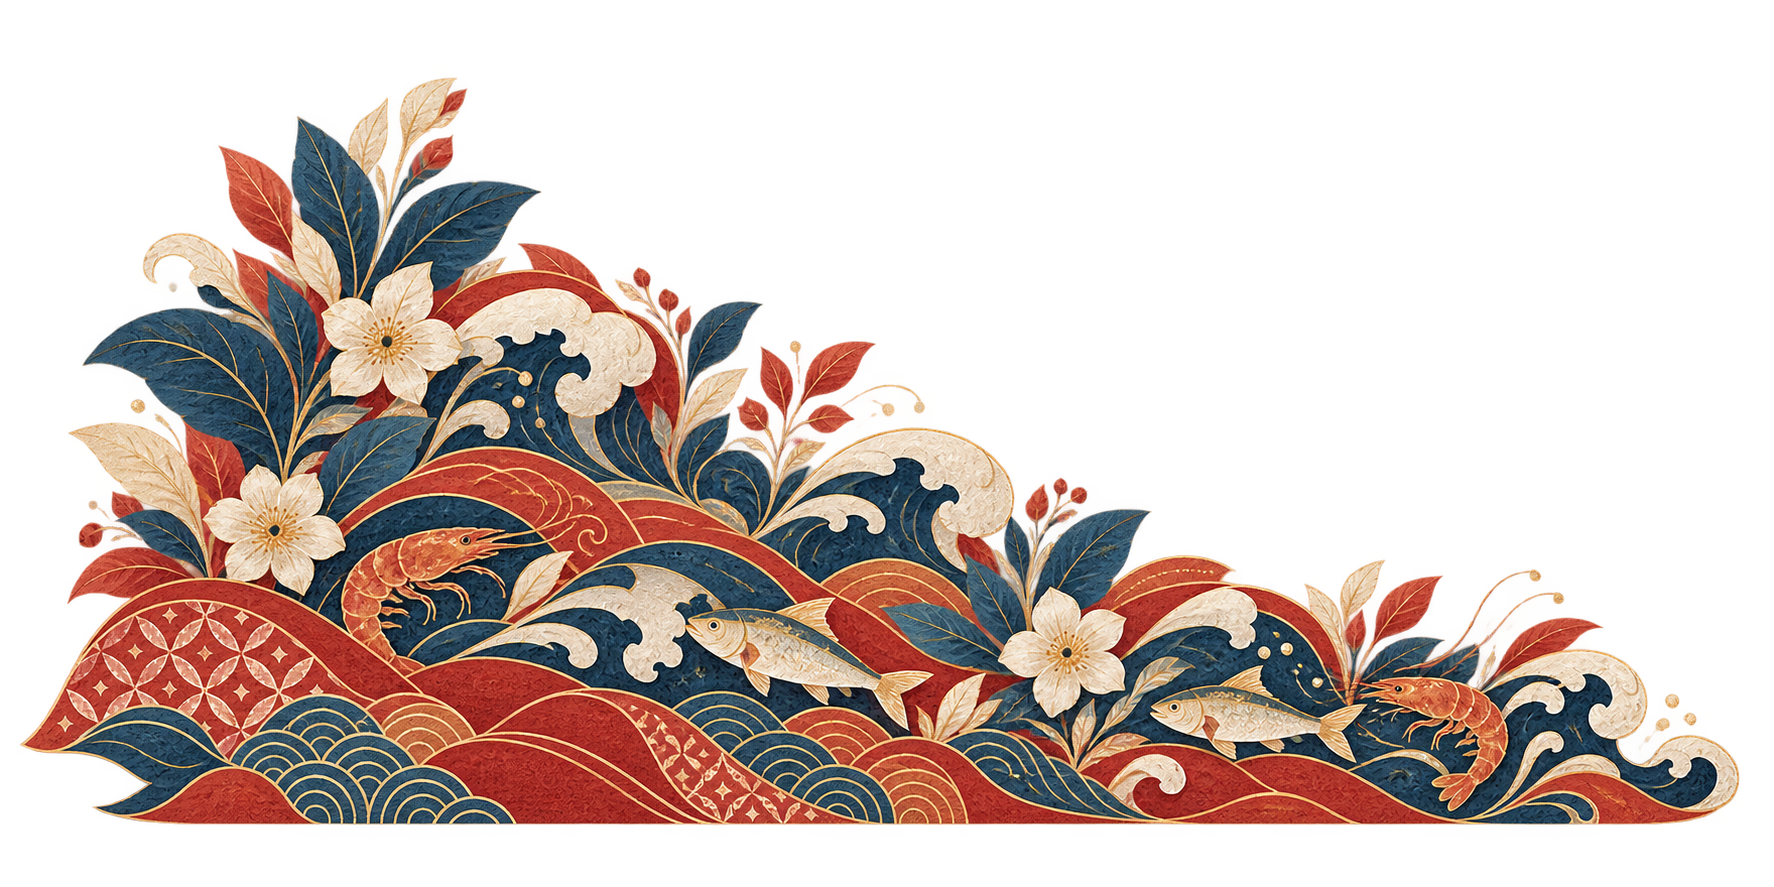
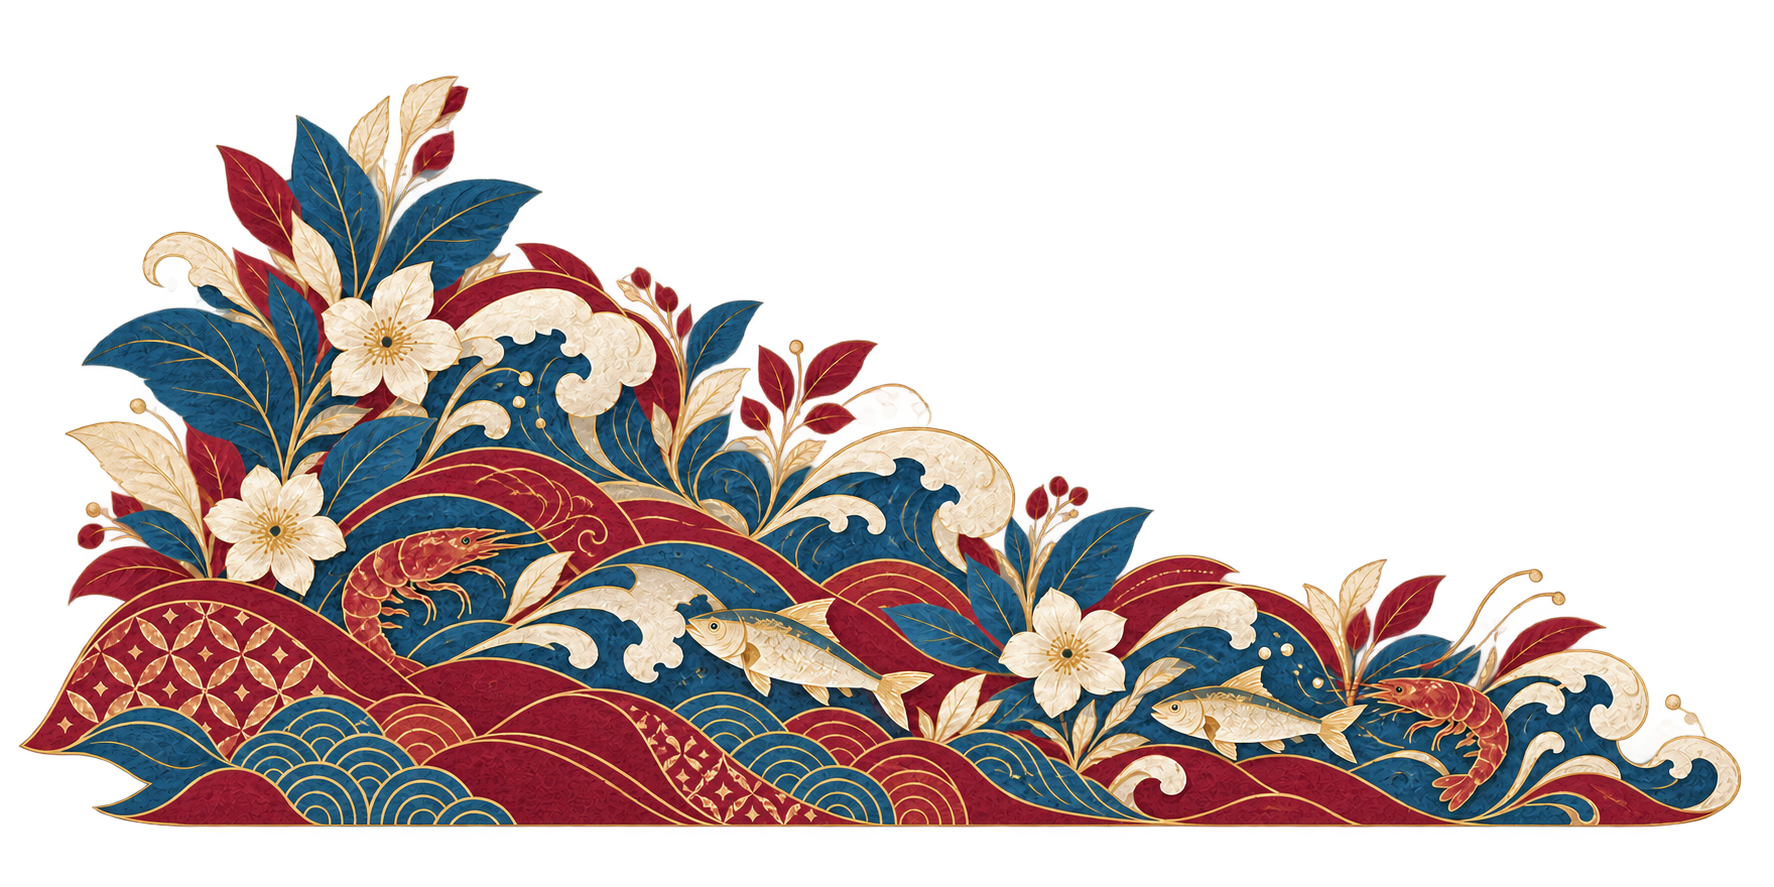
style: refine tentang portrait ornament

Changed region(s): [[0.0, 0.0913, 0.9921, 0.9436]]

diff --git a/src/components/pages/tentang-client.tsx b/src/components/pages/tentang-client.tsx
@@ -60,8 +60,8 @@ export function TentangClient({ data, notionId }: TentangClientProps) {
                   width: "190%",
                   maxWidth: "none",
                   height: "auto",
-                  left: "-45%",
-                  bottom: "calc(-1 * clamp(40px, 6vw, 70px) - 49px)",
+                  left: "-40%",
+                  bottom: "calc(-1 * clamp(40px, 6vw, 70px) - 32px)",
                   transform: "scaleX(-1)",
                   pointerEvents: "none",
                 }}
